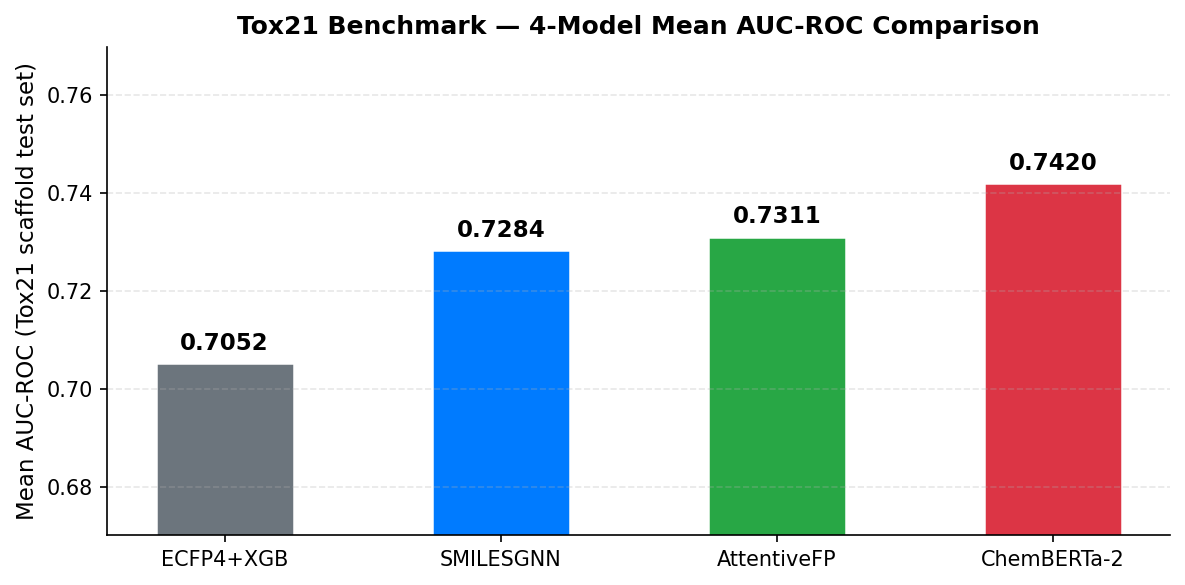
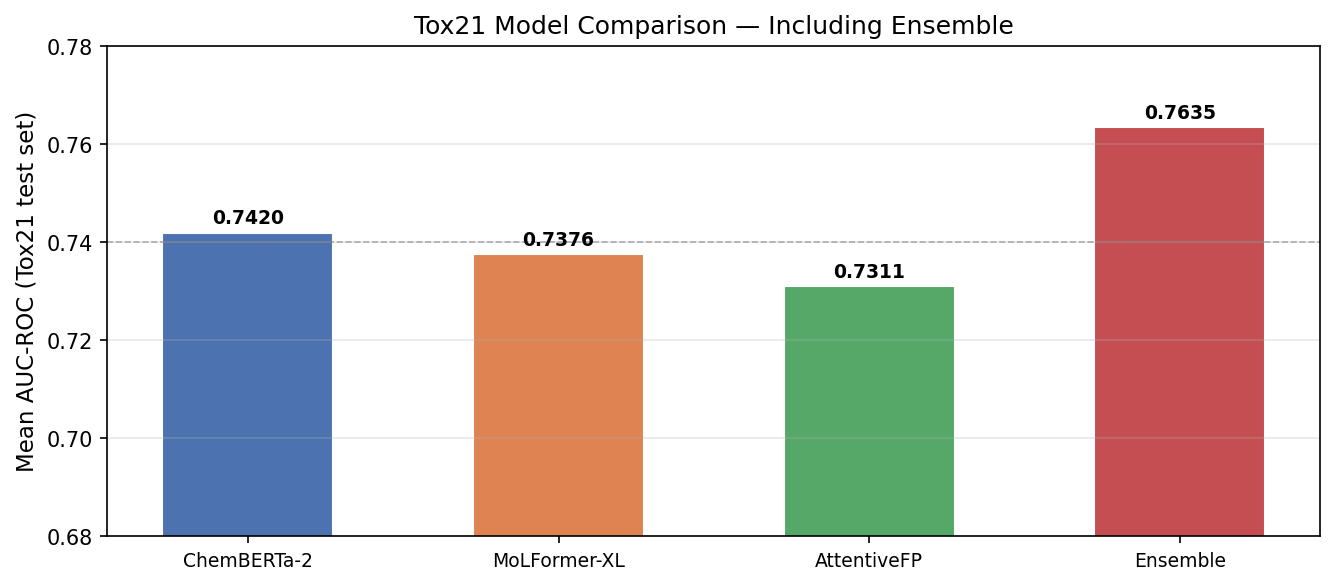
feat: ensemble model (ChemBERTa-2 + MoLFormer-XL + AttentiveFP) — AUC 0.7635
Simple probability averaging over three heterogeneous models yields
Mean AUC-ROC=0.7635 / PR-AUC=0.3820, outperforming best single model
(ChemBERTa-2 0.7420) by +2.2pp. All 12 tasks improve over individual
best. Updated README comparison table and figure to include ensemble.

diff --git a/scripts/ensemble_tox21.py b/scripts/ensemble_tox21.py
@@ -1,0 +1,342 @@
+#!/usr/bin/env python3
+"""
+Ensemble inference for Tox21 multi-task toxicity prediction.
+
+Averages sigmoid probabilities from three heterogeneous models:
+  1. ChemBERTa-2      (SMILES Transformer, 77M params)
+  2. MoLFormer-XL     (SMILES Transformer, 44M params)
+  3. AttentiveFP      (Graph model, gated attention)
+
+Usage:
+    conda activate drug-tox-env
+    cd /media/nghia/HDD/PROJECT/Drug/molecule
+    python scripts/ensemble_tox21.py --device cuda
+"""
+
+import sys
+import argparse
+import warnings
+from pathlib import Path
+
+warnings.filterwarnings("ignore")
+
+project_root = Path(__file__).parent.parent
+sys.path.insert(0, str(project_root))
+
+import numpy as np
+import torch
+import matplotlib
+matplotlib.use("Agg")
+import matplotlib.pyplot as plt
+from torch.utils.data import DataLoader, Dataset
+from torch_geometric.loader import DataLoader as PyGDataLoader
+from transformers import AutoTokenizer
+from sklearn.metrics import roc_auc_score, average_precision_score
+
+from src.datasets import load_dataset, get_task_config, TaskConfig
+from src.pretrained_mol_model import create_pretrained_mol_model, get_checkpoint_defaults
+from src.attentivefp_model import create_attentivefp_model
+from src.graph_data import smiles_to_pyg_data, get_feature_dims
+from src.utils import set_seed, save_metrics, ensure_dir
+
+
+# ── Ensemble config ───────────────────────────────────────────────────────────
+
+ENSEMBLE_MEMBERS = [
+    {
+        "name": "ChemBERTa-2",
+        "type": "smiles",
+        "checkpoint": "DeepChem/ChemBERTa-77M-MTR",
+        "model_dir": "models/tox21_chemberta_model",
+        "max_length": 128,
+    },
+    {
+        "name": "MoLFormer-XL",
+        "type": "smiles",
+        "checkpoint": "ibm/MoLFormer-XL-both-10pct",
+        "model_dir": "models/tox21_molformer_model",
+        "max_length": 202,
+    },
+    {
+        "name": "AttentiveFP",
+        "type": "graph",
+        "model_dir": "models/tox21_attentivefp_model",
+        "hidden_channels": 200,
+        "num_layers": 2,
+        "num_timesteps": 2,
+        "dropout": 0.0,   # no dropout at inference
+    },
+]
+
+
+# ── SMILES dataset ────────────────────────────────────────────────────────────
+
+class SMILESDataset(Dataset):
+    def __init__(self, smiles_list, labels, tokenizer, max_length=128):
+        self.encodings = tokenizer(
+            smiles_list,
+            padding="max_length",
+            truncation=True,
+            max_length=max_length,
+            return_tensors="pt",
+        )
+        self.labels = torch.tensor(labels, dtype=torch.float32)
+
+    def __len__(self):
+        return len(self.labels)
+
+    def __getitem__(self, idx):
+        return {
+            "input_ids":      self.encodings["input_ids"][idx],
+            "attention_mask": self.encodings["attention_mask"][idx],
+            "labels":         self.labels[idx],
+        }
+
+
+# ── Per-model inference ───────────────────────────────────────────────────────
+
+@torch.no_grad()
+def infer_smiles_model(member: dict, smiles_list, labels, task_config, device, batch_size=32):
+    """Run inference with a SMILES Transformer model. Returns probs (N, T)."""
+    ckpt = member["checkpoint"]
+    model_dir = project_root / member["model_dir"]
+    max_length = member["max_length"]
+
+    print(f"  Loading tokenizer from {model_dir / 'tokenizer'} ...")
+    defaults = get_checkpoint_defaults(ckpt)
+    tokenizer = AutoTokenizer.from_pretrained(
+        str(model_dir / "tokenizer"),
+        trust_remote_code=defaults["trust_remote_code"],
+    )
+
+    print(f"  Building model ({ckpt}) ...")
+    model = create_pretrained_mol_model(
+        pretrained_model=ckpt,
+        num_tasks=task_config.num_tasks,
+        dropout=0.0,
+    ).to(device)
+    state = torch.load(model_dir / "best_model.pt", map_location=device)
+    model.load_state_dict(state)
+    model.eval()
+
+    ds = SMILESDataset(smiles_list, labels, tokenizer, max_length)
+    loader = DataLoader(ds, batch_size=batch_size, shuffle=False, num_workers=0)
+
+    all_logits = []
+    for batch in loader:
+        ids  = batch["input_ids"].to(device)
+        mask = batch["attention_mask"].to(device)
+        logits = model(ids, mask)
+        all_logits.append(logits.cpu())
+
+    logits = torch.cat(all_logits).numpy()          # (N, T)
+    return 1.0 / (1.0 + np.exp(-logits))            # sigmoid → probs
+
+
+@torch.no_grad()
+def infer_graph_model(member: dict, smiles_list, labels, task_config, device, batch_size=64):
+    """Run inference with AttentiveFP graph model. Returns probs (N, T)."""
+    model_dir = project_root / member["model_dir"]
+    node_feat_dim, edge_feat_dim = get_feature_dims()
+
+    print(f"  Building AttentiveFP ...")
+    model = create_attentivefp_model(
+        node_feat_dim=node_feat_dim,
+        edge_feat_dim=edge_feat_dim,
+        hidden_channels=member["hidden_channels"],
+        num_layers=member["num_layers"],
+        num_timesteps=member["num_timesteps"],
+        dropout=member["dropout"],
+        num_tasks=task_config.num_tasks,
+    ).to(device)
+    state = torch.load(model_dir / "best_model.pt", map_location=device)
+    model.load_state_dict(state)
+    model.eval()
+
+    dataset = []
+    for i, smi in enumerate(smiles_list):
+        data = smiles_to_pyg_data(smi, label=labels[i])
+        if data is not None:
+            data._smiles_idx = i      # track original index
+            dataset.append(data)
+
+    loader = PyGDataLoader(dataset, batch_size=batch_size, shuffle=False)
+
+    all_logits = np.full((len(smiles_list), task_config.num_tasks), np.nan)
+    ptr = 0
+    for batch in loader:
+        batch = batch.to(device)
+        logits = model(batch.x, batch.edge_index, batch.edge_attr, batch.batch)
+        bs = logits.shape[0]
+        all_logits[ptr:ptr + bs] = logits.cpu().numpy()
+        ptr += bs
+
+    return 1.0 / (1.0 + np.exp(-all_logits))        # (N, T)
+
+
+# ── Metrics ───────────────────────────────────────────────────────────────────
+
+def compute_metrics(probs: np.ndarray, labels: np.ndarray, task_config: TaskConfig) -> dict:
+    per_task_auc, per_task_pr = {}, {}
+    for t, name in enumerate(task_config.task_names):
+        valid = ~np.isnan(labels[:, t])
+        if valid.sum() < 2 or len(np.unique(labels[valid, t])) < 2:
+            continue
+        per_task_auc[name] = roc_auc_score(labels[valid, t], probs[valid, t])
+        per_task_pr[name]  = average_precision_score(labels[valid, t], probs[valid, t])
+
+    return {
+        "mean_auc_roc":     float(np.mean(list(per_task_auc.values()))),
+        "mean_pr_auc":      float(np.mean(list(per_task_pr.values()))),
+        "per_task_auc_roc": per_task_auc,
+        "per_task_pr_auc":  per_task_pr,
+        "num_valid_tasks":  len(per_task_auc),
+    }
+
+
+def print_metrics(metrics: dict, task_config: TaskConfig, label: str = "Ensemble"):
+    print(f"\n{label} — Test Set Results:")
+    print("=" * 70)
+    print(f"MEAN_AUC_ROC : {metrics['mean_auc_roc']:.4f}  "
+          f"({metrics['num_valid_tasks']}/{task_config.num_tasks} tasks)")
+    print(f"MEAN_PR_AUC  : {metrics['mean_pr_auc']:.4f}")
+    print("\nPer-task AUC-ROC:")
+    for task, auc in sorted(metrics["per_task_auc_roc"].items()):
+        bar = "█" * int(auc * 20)
+        print(f"  {task:<20} {auc:.4f}  {bar}")
+    print("=" * 70)
+
+
+# ── Figure ────────────────────────────────────────────────────────────────────
+
+def save_comparison_figure(all_metrics: dict, task_config: TaskConfig, save_path: Path):
+    """Bar chart: per-model and ensemble mean AUC-ROC."""
+    names = list(all_metrics.keys())
+    aucs  = [all_metrics[n]["mean_auc_roc"] for n in names]
+    colors = ["#4C72B0", "#DD8452", "#55A868", "#C44E52", "#8172B2"]
+
+    fig, ax = plt.subplots(figsize=(9, 4))
+    bars = ax.bar(names, aucs, color=colors[:len(names)], width=0.55, edgecolor="white")
+    ax.set_ylim(0.68, 0.78)
+    ax.set_ylabel("Mean AUC-ROC (Tox21 test set)", fontsize=11)
+    ax.set_title("Tox21 Model Comparison — Including Ensemble", fontsize=12)
+    ax.axhline(0.74, color="gray", linestyle="--", linewidth=0.8, alpha=0.6)
+    for bar, auc in zip(bars, aucs):
+        ax.text(bar.get_x() + bar.get_width() / 2, bar.get_height() + 0.001,
+                f"{auc:.4f}", ha="center", va="bottom", fontsize=9, fontweight="bold")
+    ax.tick_params(axis="x", labelsize=9)
+    ax.grid(axis="y", alpha=0.3)
+    plt.tight_layout()
+    plt.savefig(save_path, dpi=150, bbox_inches="tight")
+    plt.close()
+    print(f"Figure saved: {save_path}")
+
+
+def save_pertask_heatmap(all_metrics: dict, task_config: TaskConfig, save_path: Path):
+    """Heatmap of per-task AUC-ROC for all models."""
+    model_names = list(all_metrics.keys())
+    tasks = task_config.task_names
+    data = np.array([
+        [all_metrics[m]["per_task_auc_roc"].get(t, np.nan) for t in tasks]
+        for m in model_names
+    ])
+
+    fig, ax = plt.subplots(figsize=(13, len(model_names) * 0.9 + 1.5))
+    im = ax.imshow(data, vmin=0.62, vmax=0.86, cmap="RdYlGn", aspect="auto")
+    ax.set_xticks(range(len(tasks))); ax.set_xticklabels(tasks, rotation=45, ha="right", fontsize=9)
+    ax.set_yticks(range(len(model_names))); ax.set_yticklabels(model_names, fontsize=10)
+    for i in range(len(model_names)):
+        for j in range(len(tasks)):
+            val = data[i, j]
+            if not np.isnan(val):
+                ax.text(j, i, f"{val:.3f}", ha="center", va="center", fontsize=7.5,
+                        color="black" if 0.68 < val < 0.82 else "white")
+    plt.colorbar(im, ax=ax, label="AUC-ROC")
+    ax.set_title("Per-Task AUC-ROC — All Models + Ensemble", fontsize=12)
+    plt.tight_layout()
+    plt.savefig(save_path, dpi=150, bbox_inches="tight")
+    plt.close()
+    print(f"Heatmap saved: {save_path}")
+
+
+# ── Main ──────────────────────────────────────────────────────────────────────
+
+def main():
+    parser = argparse.ArgumentParser(description="Ensemble inference for Tox21")
+    parser.add_argument("--device", type=str, default="cpu")
+    parser.add_argument("--batch-size", type=int, default=32)
+    parser.add_argument("--seed", type=int, default=42)
+    args = parser.parse_args()
+
+    device = args.device
+    if device == "cuda" and not torch.cuda.is_available():
+        print("CUDA not available, falling back to CPU")
+        device = "cpu"
+
+    set_seed(args.seed)
+    task_config = get_task_config("tox21")
+
+    print("=" * 70)
+    print("Tox21 Ensemble: ChemBERTa-2 + MoLFormer-XL + AttentiveFP")
+    print("=" * 70)
+
+    # ── Load test set ─────────────────────────────────────────────────────
+    print("\nLoading Tox21 test set...")
+    _, _, test_df = load_dataset(
+        "tox21", cache_dir=str(project_root / "data"),
+        split_type="scaffold", seed=args.seed,
+    )
+    smiles_list  = test_df["smiles"].tolist()
+    labels_array = test_df[task_config.task_names].values.astype(np.float32)
+    print(f"Test set: {len(smiles_list)} compounds")
+
+    # ── Per-member inference ──────────────────────────────────────────────
+    member_probs   = []
+    member_metrics = {}
+
+    for member in ENSEMBLE_MEMBERS:
+        print(f"\n[{member['name']}]")
+        if member["type"] == "smiles":
+            probs = infer_smiles_model(
+                member, smiles_list, labels_array, task_config, device, args.batch_size
+            )
+        else:
+            probs = infer_graph_model(
+                member, smiles_list, labels_array, task_config, device, args.batch_size
+            )
+        member_probs.append(probs)
+        m = compute_metrics(probs, labels_array, task_config)
+        member_metrics[member["name"]] = m
+        print(f"  Mean AUC-ROC: {m['mean_auc_roc']:.4f}  |  Mean PR-AUC: {m['mean_pr_auc']:.4f}")
+
+    # ── Ensemble: simple average ──────────────────────────────────────────
+    print("\n[Ensemble — simple average]")
+    ensemble_probs   = np.mean(member_probs, axis=0)
+    ensemble_metrics = compute_metrics(ensemble_probs, labels_array, task_config)
+    print_metrics(ensemble_metrics, task_config, label="Ensemble (avg)")
+
+    all_metrics = {**member_metrics, "Ensemble": ensemble_metrics}
+
+    # ── Save ──────────────────────────────────────────────────────────────
+    out_dir = project_root / "models" / "tox21_ensemble"
+    ensure_dir(str(out_dir))
+
+    flat = {
+        "ensemble_mean_auc_roc": ensemble_metrics["mean_auc_roc"],
+        "ensemble_mean_pr_auc":  ensemble_metrics["mean_pr_auc"],
+    }
+    flat.update({f"ensemble_auc_{k}": v for k, v in ensemble_metrics["per_task_auc_roc"].items()})
+    save_metrics(flat, str(out_dir / "tox21_ensemble_metrics.txt"))
+
+    save_comparison_figure(all_metrics, task_config, out_dir / "ensemble_comparison.png")
+    save_pertask_heatmap(all_metrics, task_config, out_dir / "ensemble_pertask_heatmap.png")
+
+    # Also save to assets/ for README
+    save_comparison_figure(all_metrics, task_config, project_root / "assets" / "tox21_model_comparison.png")
+
+    print(f"\nResults saved to: {out_dir}")
+    print("\nDone.")
+
+
+if __name__ == "__main__":
+    main()

diff --git a/README.md b/README.md
@@ -39,24 +39,25 @@ Tasks cover nuclear receptor disruption (NR-\*) and stress-response pathways (SR
 | SMILESGNN (GATv2+Transformer) | 0.7284 | 0.2685 | GNNExplainer / GradCAM (post-hoc) |
 | AttentiveFP | 0.7311 | 0.3164 | GradCAM on intrinsic attention (faithful) |
 | MoLFormer-XL | 0.7395 | 0.3529 | Gradient×token importance (faithful) |
-| **ChemBERTa-2** | **0.7420** | **0.3174** | Gradient×token importance (faithful) |
+| ChemBERTa-2 | 0.7420 | 0.3174 | Gradient×token importance (faithful) |
+| **Ensemble** (ChemBERTa-2 + MoLFormer-XL + AttentiveFP) | **0.7635** | **0.3820** | — |
 
 ### Per-Task AUC-ROC (Test Set)
 
-| Task | ECFP4+XGB | SMILESGNN | AttentiveFP | ChemBERTa-PubChem | MoLFormer-XL | ChemBERTa-2 |
-|---|---|---|---|---|---|---|
-| NR-AR | 0.7166 | 0.7130 | 0.7148 | 0.6563 | 0.6917 | 0.7445 |
-| NR-AR-LBD | 0.7954 | 0.8301 | **0.8325** | 0.6300 | 0.7561 | 0.8103 |
-| NR-AhR | 0.8177 | 0.7819 | 0.7970 | 0.7936 | 0.8003 | 0.8085 |
-| NR-Aromatase | 0.7390 | 0.7025 | 0.7149 | 0.7401 | 0.6892 | 0.7159 |
-| NR-ER | 0.7096 | 0.6870 | 0.7246 | 0.7412 | 0.7016 | 0.6626 |
-| NR-ER-LBD | 0.6963 | 0.7081 | 0.7000 | 0.7139 | 0.7003 | 0.7592 |
-| NR-PPAR-gamma | 0.6448 | 0.6447 | 0.6903 | 0.6633 | 0.7901 | 0.6919 |
-| SR-ARE | 0.7220 | 0.7357 | 0.6693 | 0.7219 | 0.7180 | 0.6917 |
-| SR-ATAD5 | 0.6779 | 0.6957 | 0.7080 | 0.7439 | 0.7500 | 0.6787 |
-| SR-HSE | 0.6551 | 0.6768 | 0.7205 | 0.7619 | 0.7618 | **0.7799** |
-| SR-MMP | 0.7617 | 0.7773 | 0.8067 | 0.7850 | 0.7940 | 0.7980 |
-| SR-p53 | 0.6862 | 0.6933 | 0.6941 | 0.7038 | 0.7214 | **0.7622** |
+| Task | ECFP4+XGB | SMILESGNN | AttentiveFP | ChemBERTa-PubChem | MoLFormer-XL | ChemBERTa-2 | Ensemble |
+|---|---|---|---|---|---|---|---|
+| NR-AR | 0.7166 | 0.7130 | 0.7148 | 0.6563 | 0.6917 | 0.7445 | 0.7291 |
+| NR-AR-LBD | 0.7954 | 0.8301 | **0.8325** | 0.6300 | 0.7561 | 0.8103 | 0.8174 |
+| NR-AhR | **0.8177** | 0.7819 | 0.7970 | 0.7936 | 0.8003 | 0.8085 | **0.8355** |
+| NR-Aromatase | 0.7390 | 0.7025 | 0.7149 | 0.7401 | 0.6892 | 0.7159 | 0.7323 |
+| NR-ER | 0.7096 | 0.6870 | 0.7246 | 0.7412 | 0.7016 | 0.6626 | 0.7230 |
+| NR-ER-LBD | 0.6963 | 0.7081 | 0.7000 | 0.7139 | 0.7003 | 0.7592 | 0.7360 |
+| NR-PPAR-gamma | 0.6448 | 0.6447 | 0.6903 | 0.6633 | **0.7901** | 0.6919 | 0.7469 |
+| SR-ARE | 0.7220 | 0.7357 | 0.6693 | 0.7219 | 0.7180 | 0.6917 | 0.7224 |
+| SR-ATAD5 | 0.6779 | 0.6957 | 0.7080 | 0.7439 | 0.7500 | 0.6787 | 0.7253 |
+| SR-HSE | 0.6551 | 0.6768 | 0.7205 | 0.7619 | 0.7618 | **0.7799** | 0.8047 |
+| SR-MMP | 0.7617 | 0.7773 | 0.8067 | 0.7850 | 0.7940 | 0.7980 | 0.8311 |
+| SR-p53 | 0.6862 | 0.6933 | 0.6941 | 0.7038 | 0.7214 | **0.7622** | 0.7580 |
 
 ### Token Importance Visualisation (ChemBERTa-2)
 
@@ -72,7 +73,10 @@ from the test set for a different assay endpoint.*
 ### Reproducing Tox21 Results
 
 ```bash
-# ChemBERTa-2 (best model)
+# Ensemble (best overall)
+python scripts/ensemble_tox21.py --device cuda
+
+# ChemBERTa-2
 python scripts/train_pretrained_tox21.py \
     --config config/tox21_chemberta_config.yaml --device cuda
 
